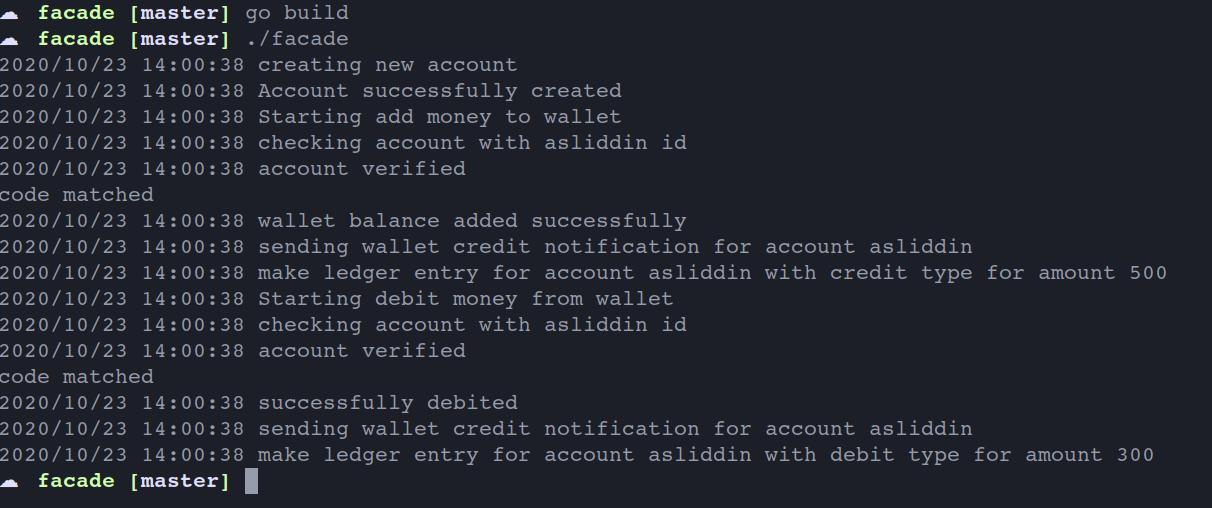
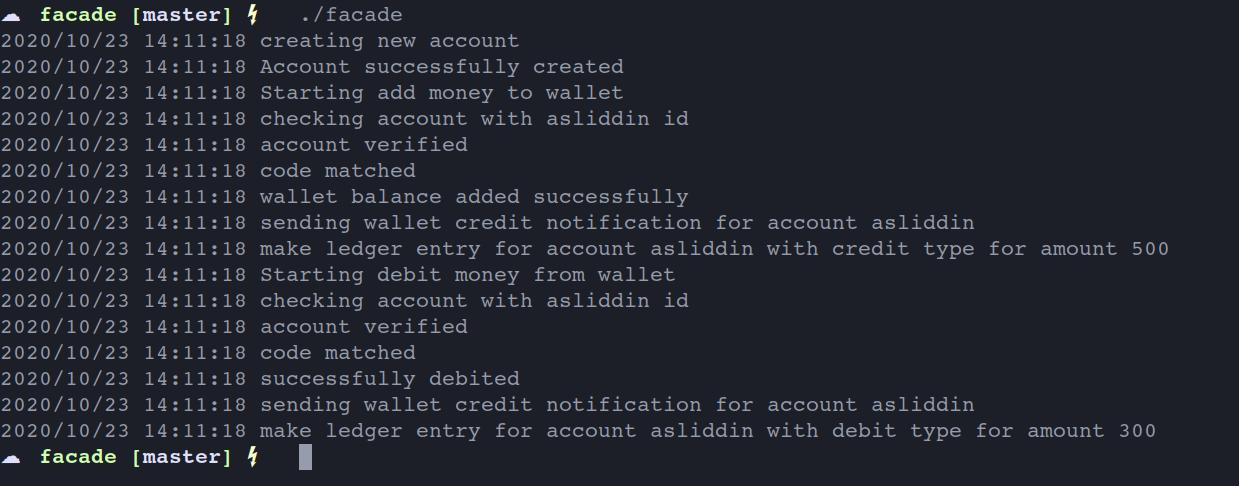
fix security code checking result log

Changed region(s): [[0.0, 0.0, 0.9769, 0.9877]]

diff --git a/security_code.go b/security_code.go
@@ -1,6 +1,9 @@
 package main
 
-import "fmt"
+import (
+	"fmt"
+	"log"
+)
 
 type securityCode struct{ code int }
 
@@ -12,6 +15,6 @@ func (sc *securityCode) checkCode(code int) error {
 	if sc.code != code {
 		return fmt.Errorf("given %v code not matched", code)
 	}
-	fmt.Println("code matched")
+	log.Println("code matched")
 	return nil
 }
